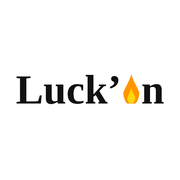
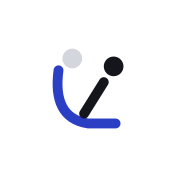
Add files via upload

Changed region(s): [[0.0833, 0.25, 0.6944, 0.7222], [0.6667, 0.4167, 0.9167, 0.5833]]

diff --git a/index.html b/index.html
@@ -4,7 +4,7 @@
 <meta name="theme-color" content="#FFFFFF" media="(prefers-color-scheme: light)"><meta name="theme-color" content="#000000" media="(prefers-color-scheme: dark)">
 <meta name="apple-mobile-web-app-capable" content="yes"><meta name="mobile-web-app-capable" content="yes">
 <meta name="apple-mobile-web-app-title" content="Luck’In"><meta name="apple-mobile-web-app-status-bar-style" content="black-translucent">
-<link rel="manifest" href="manifest.webmanifest"><link rel="apple-touch-icon" href="apple-touch-icon.png">
+<link rel="manifest" href="manifest.webmanifest"><link rel="apple-touch-icon" href="apple-touch-icon.png"><link rel="icon" type="image/png" sizes="32x32" href="favicon-32.png">
 <style>:root{color-scheme:light}[hidden]{display:none!important}img{max-width:100%}</style>
 <title>Luck’In</title>
 <link rel="preconnect" href="https://fonts.googleapis.com"><link rel="preconnect" href="https://fonts.gstatic.com" crossorigin><link rel="stylesheet" href="https://fonts.googleapis.com/css2?family=Plus+Jakarta+Sans:wght@400;500;600;700;800&display=swap">
@@ -608,10 +608,42 @@ html,body{overscroll-behavior-x:none}
 .fr-legend span{display:inline-flex;align-items:center;gap:5px}
 @media (prefers-color-scheme: dark){:root:not([data-theme="light"]) .fr-plus{background:#F5F5F7;color:#000}}
 :root[data-theme="dark"] .fr-plus{background:#F5F5F7;color:#000}
+/* ===== identité Luck'In : logo « lean in » et ouverture ===== */
+:root{--lk-bg:#FFFFFF;--lk-ink:#14161C;--lk-blue:#2B3FC4;--lk-arrow:#2B3FC4;--lk-ghost:#D3D6DD}
+@media (prefers-color-scheme: dark){:root:not([data-theme="light"]){--lk-bg:#14161C;--lk-ink:#FFFFFF;--lk-arrow:#8E9BF0;--lk-ghost:#4A4F5C}}
+:root[data-theme="dark"]{--lk-bg:#14161C;--lk-ink:#FFFFFF;--lk-arrow:#8E9BF0;--lk-ghost:#4A4F5C}
+:root #splash.lk-sp.lk-sp{background:var(--lk-bg);transition:opacity .25s ease}
+#splash.out{opacity:0;pointer-events:none}
+.lk{display:block;width:min(74vw,320px);height:auto;overflow:visible}
+.lk-ghost{fill:var(--lk-ghost)}
+.lk-chair{fill:none;stroke:var(--lk-blue);stroke-width:10;stroke-linecap:round}
+.lk-torso{fill:none;stroke:var(--lk-ink);stroke-width:10;stroke-linecap:round}
+.lk-head{fill:var(--lk-ink)}
+.lk-w1,.lk-w2{fill:var(--lk-ink)}
+.lk-arrow path{fill:none;stroke:var(--lk-arrow);stroke-width:3.5;stroke-linecap:round;stroke-linejoin:round}
+/* 0 → 0,3 s : la chaise se dessine, buste penché en arrière */
+#splash .lk-chair{stroke-dasharray:1 1;stroke-dashoffset:1;animation:lkDraw .3s ease-out forwards}
+#splash .lk-body{transform-origin:0 0;transform:rotate(-44deg);animation:lkLean .5s cubic-bezier(.55,0,.25,1.12) .3s forwards}
+#splash .lk-ghost{opacity:0;animation:lkFade .25s ease-out .38s forwards}
+#splash .lk-torso,#splash .lk-head{opacity:0;animation:lkFade .15s ease-out .05s forwards}
+/* 0,8 → 1,2 s : « luck » et « in » en fondu, puis la flèche se trace */
+#splash .lk-w1,#splash .lk-w2{opacity:0;transform:translateY(8px);animation:lkIn .28s ease-out .8s forwards}
+#splash .lk-w2{animation-delay:.88s}
+#splash .lk-a1,#splash .lk-a2{stroke-dasharray:1 1;stroke-dashoffset:1;animation:lkDraw .16s ease-out 1s forwards}
+#splash .lk-a2{animation-delay:1.12s;animation-duration:.08s}
+:is(#splash.short,.lk-static) :is(.lk-ghost,.lk-chair,.lk-body,.lk-torso,.lk-head,.lk-w1,.lk-w2,.lk-a1,.lk-a2){animation:none!important;opacity:1!important;transform:none!important;stroke-dashoffset:0!important}
+@keyframes lkDraw{to{stroke-dashoffset:0}}
+@keyframes lkLean{to{transform:rotate(0)}}
+@keyframes lkFade{to{opacity:1}}
+@keyframes lkIn{to{opacity:1;transform:none}}
+#gate{--tint:#2B3FC4}
+.g-logo .lk{width:min(64vw,250px);height:auto;margin:0}
+@media (prefers-color-scheme: dark){:root:not([data-theme="light"]) #gate{--tint:#8E9BF0}}
+:root[data-theme="dark"] #gate{--tint:#8E9BF0}
 </style>
 
 </head><body>
-<div id="splash" aria-hidden="true"><div class="sp-word"><span class="sp-c" style="--d:660ms">L</span><span class="sp-c" style="--d:550ms">u</span><span class="sp-c" style="--d:440ms">c</span><span class="sp-c" style="--d:330ms">k</span><span class="sp-c" style="--d:220ms">’</span><span class="sp-c" style="--d:110ms"><svg class="sp-fl" viewBox="0 0 24 34" aria-hidden="true"><path fill="#FF9500" d="M12.5 1c.5 4.2-1.8 6.7-3.9 9C6.3 12.4 4 15 4 19.2 4 25.6 7.6 32 12.6 32c5.3 0 8.4-4.4 8.4-10.3 0-4.5-2-7.3-3.6-9.3-.3 2.3-1.1 4-2.5 5 .4-5.6-.6-11.8-2.4-16.4Z"/><path fill="#FFD60A" d="M12.4 31c-2.4 0-4.2-2-4.2-4.8 0-3 1.8-4.4 3.1-6.1.4 1.6 1.3 2.5 2.4 2.8-.1-1.4 0-2.8.6-4.1 1.5 1.9 2.7 3.7 2.7 6.5 0 3.4-2 5.7-4.6 5.7Z"/></svg></span><span class="sp-c" style="--d:0ms">n</span></div></div>
+<div id="splash" class="lk-sp" aria-hidden="true"><svg class="lk" viewBox="0 0 571 200" role="img" aria-label="Luck’In"><g transform="translate(0 5) scale(1.583)"><circle class="lk-ghost" cx="42" cy="28" r="10"/><path class="lk-chair" pathLength="1" d="M28 40 C24 70 32 90 58 94 L86 94"/><g transform="translate(54 84)"><g class="lk-body"><path class="lk-torso" d="M0 0 L20 -32"/><circle class="lk-head" cx="30" cy="-48" r="10"/></g></g></g><path class="lk-w1" d="M234.256 132.0V71.904H227.728V61.92H247.6V132.0Z M277.744 133.632Q268.72 133.632 263.776 127.68Q258.832 121.728 258.832 110.01599999999999V79.776H272.176V111.168Q272.176 115.968 274.86400000000003 118.80000000000001Q277.552 121.632 282.16 121.632Q286.76800000000003 121.632 289.696 118.656Q292.624 115.68 292.624 110.592V79.776H305.968V132.0H295.408V119.904Q295.024 121.536 294.448 122.976Q292.432 128.256 288.4 130.94400000000002Q284.368 133.632 278.32 133.632Z M341.58400000000006 133.824Q334.76800000000003 133.824 329.82400000000007 131.52Q324.88000000000005 129.216 321.56800000000004 125.376Q318.25600000000003 121.536 316.624 116.736Q314.992 111.936 314.992 106.944V105.12Q314.992 99.84 316.672 94.992Q318.35200000000003 90.144 321.71200000000005 86.352Q325.07200000000006 82.56 330.0160000000001 80.304Q334.96000000000004 78.048 341.48800000000006 78.048Q348.30400000000003 78.048 353.68000000000006 80.688Q359.05600000000004 83.328 362.27200000000005 88.032Q365.48800000000006 92.73599999999999 365.872 98.976H352.91200000000003Q352.432 94.944 349.504 92.256Q346.576 89.568 341.48800000000006 89.568Q337.07200000000006 89.568 334.144 91.68Q331.216 93.792 329.776 97.488Q328.336 101.184 328.336 105.984Q328.336 110.592 329.728 114.336Q331.12 118.08 334.048 120.19200000000001Q336.97600000000006 122.304 341.58400000000006 122.304Q345.04 122.304 347.53600000000006 121.056Q350.03200000000004 119.80799999999999 351.52000000000004 117.6Q353.00800000000004 115.392 353.39200000000005 112.608H366.35200000000003Q365.968 118.944 362.65600000000006 123.696Q359.34400000000005 128.448 353.9200000000001 131.13600000000002Q348.49600000000004 133.824 341.58400000000006 133.824Z M410.60800000000006 132.0 393.136 107.616H387.47200000000004V132.0H374.12800000000004V61.92H387.47200000000004V104.928L407.53600000000006 79.872H421.456L403.696 102.048L425.68000000000006 132.0Z"/><path class="lk-w2" d="M483.37600000000003 132.0V89.856H476.08000000000004V79.872H496.72V132.0ZM488.27200000000005 73.632Q484.33600000000007 73.632 482.46400000000006 71.568Q480.59200000000004 69.50399999999999 480.59200000000004 66.33599999999998Q480.59200000000004 63.16799999999999 482.46400000000006 61.151999999999994Q484.33600000000007 59.135999999999996 488.27200000000005 59.135999999999996Q492.208 59.135999999999996 494.03200000000004 61.151999999999994Q495.85600000000005 63.16799999999999 495.85600000000005 66.33599999999998Q495.85600000000005 69.50399999999999 494.03200000000004 71.568Q492.208 73.632 488.27200000000005 73.632Z M509.20000000000005 132.0V79.872H519.76V92.73599999999999Q520.24 90.72 520.912 88.896Q523.024 83.616 527.2 80.928Q531.3760000000001 78.24000000000001 537.616 78.24000000000001H538.192Q547.504 78.24000000000001 552.3040000000001 84.24000000000001Q557.104 90.24000000000001 557.104 102.144V132.0H543.76V100.992Q543.76 96.19200000000001 541.024 93.21600000000001Q538.288 90.24000000000001 533.488 90.24000000000001Q528.5920000000001 90.24000000000001 525.5680000000001 93.26400000000001Q522.5440000000001 96.288 522.5440000000001 101.376V132.0Z"/><g class="lk-arrow" transform="translate(424.82 56.16) scale(1.9000)"><path class="lk-a1" pathLength="1" d="M3 15 Q11 3 21 9"/><path class="lk-a2" pathLength="1" d="M21 3 L22 10 L15 11"/></g></svg></div>
 <header class="navbar" id="bar"><div class="in"><div class="l" id="navL"></div><div class="ttl" id="navT"></div><div class="r" id="navR"></div></div></header>
 <main id="app"></main>
 <div class="timer" id="timer" hidden></div>
@@ -1382,7 +1414,7 @@ const SB_URL='https://uuekwjieeswcipzkucjb.supabase.co',SB_KEY='sb_publishable_f
 const AK=K+':acct',APP_URL='https://brisco-ops.github.io/cap/';
 let sb=null;try{if(window.supabase?.createClient)sb=window.supabase.createClient(SB_URL,SB_KEY,{auth:{persistSession:true,autoRefreshToken:true,detectSessionInUrl:false,storageKey:'luckin-auth'}})}catch(e){sb=null}
 const A={user:null,group:null,members:[],shares:[],dirty:false,t:0,flushing:false,lastFetch:0,sentName:null};
-const LOGO=(()=>{const f=document.querySelector('#splash .sp-fl');return `Luck’${f?f.outerHTML:'I'}n`})();
+const LOGO=(()=>{const g=document.querySelector('#splash svg');return g?g.outerHTML.replace('class="lk"','class="lk lk-static"'):'Luck’In'})();
 
 function cloudQueue(){if(!sb||!A.user)return;A.dirty=true;clearTimeout(A.t);A.t=setTimeout(cloudFlush,1500)}
 const cloudCopy=()=>{const c=JSON.parse(JSON.stringify(db));if(c.settings)c.settings.apiKey='';return c};
@@ -1586,7 +1618,9 @@ document.addEventListener('submit',async ev=>{const f=ev.target;const k=f.datase
       const r=await sb.rpc('join_group',{invite:code});if(r.error)throw r.error;closeSheet();await loadGroup(true);render();hud('Bienvenue dans « '+(A.group?.name||'le groupe')+' »')}
   }catch(e){if(btn)btn.disabled=false;hud(/invalide/i.test(e?.message||'')?'Code invalide':'Erreur : '+(e?.message||e))}});
 render();keepAwake();showHome(false);cloudBoot();
-setTimeout(()=>{const sp=$('#splash');if(!sp)return;sp.querySelector('.sp-word').classList.add('fall');setTimeout(()=>{sp.classList.add('out');setTimeout(()=>sp.remove(),500)},1160)},3000);
+(function(){const sp=$('#splash');if(!sp)return;let seen=null;try{seen=localStorage.getItem('luckin:intro')}catch(e){}
+  const short=!!seen||reduce();if(short)sp.classList.add('short');try{localStorage.setItem('luckin:intro','1')}catch(e){}
+  setTimeout(()=>{sp.classList.add('out');setTimeout(()=>sp.remove(),260)},short?350:1240)})();
 })();
 </script>
 </body></html>

diff --git a/sw.js b/sw.js
@@ -1,4 +1,4 @@
-const C="cap-fit-38";const F=['./','index.html','manifest.webmanifest','icon-192.png','icon-512.png','apple-touch-icon.png'];
+const C="cap-fit-39";const F=['./','index.html','manifest.webmanifest','icon-192.png','icon-512.png','apple-touch-icon.png','favicon-32.png'];
 self.addEventListener('install',e=>{e.waitUntil(caches.open(C).then(c=>c.addAll(F)));self.skipWaiting()});
 self.addEventListener('activate',e=>{e.waitUntil(caches.keys().then(k=>Promise.all(k.filter(x=>x!==C).map(x=>caches.delete(x)))));self.clients.claim()});
 self.addEventListener('fetch',e=>{if(e.request.method!=="GET"||e.request.url.includes("supabase.co"))return;e.respondWith(fetch(e.request).then(r=>{const cp=r.clone();caches.open(C).then(c=>c.put(e.request,cp));return r}).catch(()=>caches.match(e.request).then(r=>r||caches.match('index.html'))))});
